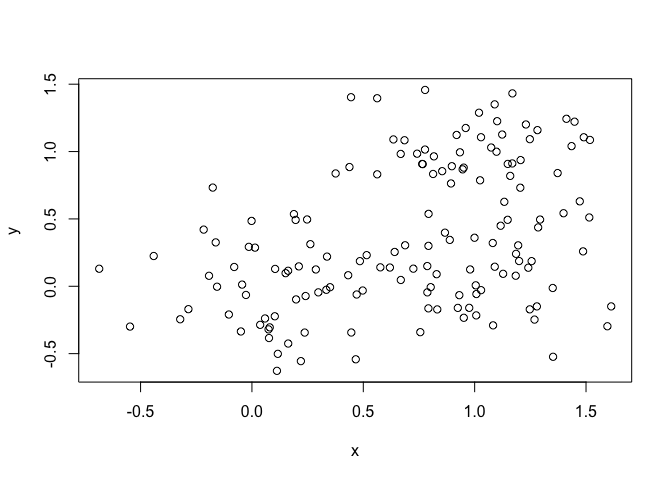
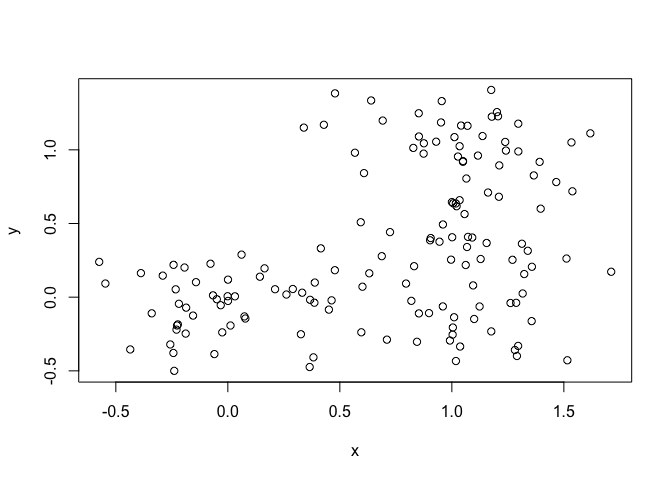
updated class8

diff --git a/class08/class08.md b/class08/class08.md
@@ -8,9 +8,9 @@ Kmeans clustering
 
 Let's try out the **kmeans()** function in R with some made-up data kmeans(x, center (aka the number of groups), nstart (number of iterations))
 
+Generate some example data for clustering Remember that rnorm produces a random normal distribution of 30 samples with a mean of 3 or -3 (a third value would have been the standard deviation)
+
 ``` r
-# Generate some example data for clustering
-# Remember that rnorm produces a random normal distribution of 30 samples with a mean of 3 or -3 (a third value would have been the standard deviation)
 tmp <- c(rnorm(30,-3), rnorm(30,3))
 x <- cbind(x=tmp, y=rev(tmp))
 plot(x)
@@ -29,16 +29,16 @@ km
     ## 
     ## Cluster means:
     ##           x         y
-    ## 1  2.825715 -2.695686
-    ## 2 -2.695686  2.825715
+    ## 1  3.373343 -2.938490
+    ## 2 -2.938490  3.373343
     ## 
     ## Clustering vector:
     ##  [1] 2 2 2 2 2 2 2 2 2 2 2 2 2 2 2 2 2 2 2 2 2 2 2 2 2 2 2 2 2 2 1 1 1 1 1
     ## [36] 1 1 1 1 1 1 1 1 1 1 1 1 1 1 1 1 1 1 1 1 1 1 1 1 1
     ## 
     ## Within cluster sum of squares by cluster:
-    ## [1] 65.61506 65.61506
-    ##  (between_SS / total_SS =  87.5 %)
+    ## [1] 36.8642 36.8642
+    ##  (between_SS / total_SS =  94.2 %)
     ## 
     ## Available components:
     ## 
@@ -80,13 +80,13 @@ table(km$cluster)
     ## 30 30
 
 ``` r
-# Detemrines cluster centers
+# Determines cluster centers
 km$centers
 ```
 
     ##           x         y
-    ## 1  2.825715 -2.695686
-    ## 2 -2.695686  2.825715
+    ## 1  3.373343 -2.938490
+    ## 2 -2.938490  3.373343
 
 Plot x colored by the kmeans cluster assignment and add cluster centers as blue points
 
@@ -142,8 +142,8 @@ gp3 <- cutree(hc, k=3)
 gp3
 ```
 
-    ##  [1] 1 1 1 1 1 1 1 1 1 1 1 1 1 1 1 1 1 1 1 1 1 1 1 1 1 1 1 1 1 1 2 3 2 2 2
-    ## [36] 2 2 3 2 3 2 2 2 2 2 2 3 2 2 2 2 3 3 2 2 2 2 2 2 3
+    ##  [1] 1 1 1 1 1 1 1 1 1 1 1 1 1 1 1 1 1 1 1 1 1 1 1 1 1 1 1 1 1 1 2 3 3 2 2
+    ## [36] 2 3 3 2 2 2 3 3 2 3 3 3 3 3 3 2 2 3 3 2 3 3 3 3 3
 
 ``` r
 table(gp3)
@@ -151,7 +151,7 @@ table(gp3)
 
     ## gp3
     ##  1  2  3 
-    ## 30 23  7
+    ## 30 11 19
 
 How about two clusters?
 
@@ -180,7 +180,7 @@ table(gp2, gp3)
     ##    gp3
     ## gp2  1  2  3
     ##   1 30  0  0
-    ##   2  0 23  7
+    ##   2  0 11 19
 
 Now let's try a more real-life like example to see how our clustering looks.
 
@@ -224,11 +224,11 @@ cutree2 <- cutree(hclust, k=2)
 cutree2
 ```
 
-    ##   [1] 1 1 1 1 1 1 1 1 1 1 1 1 1 1 1 1 1 1 1 1 1 1 1 1 1 1 1 1 1 1 1 1 1 1 1
-    ##  [36] 1 1 1 1 1 1 1 1 1 1 2 1 1 1 1 2 2 2 2 2 2 2 2 2 2 2 2 2 2 2 2 2 2 2 2
-    ##  [71] 2 2 2 2 2 2 2 2 2 2 2 2 2 2 2 2 2 2 2 2 2 2 2 2 2 2 2 2 2 2 1 2 1 2 2
-    ## [106] 2 2 2 2 2 2 2 2 2 2 2 2 1 2 2 2 2 2 2 2 2 2 2 2 2 2 2 2 2 2 1 2 2 2 2
-    ## [141] 2 2 1 2 1 2 2 1 2 2
+    ##   [1] 1 1 1 1 1 1 1 1 1 1 1 1 1 1 1 1 1 1 1 1 1 1 1 1 1 1 1 1 1 1 1 1 1 2 1
+    ##  [36] 1 1 1 1 1 1 1 1 1 1 1 1 1 1 1 2 2 2 2 2 2 1 2 2 2 2 2 2 2 2 2 2 2 2 2
+    ##  [71] 2 2 2 2 2 2 2 2 2 2 2 2 2 2 2 2 2 2 2 2 2 2 2 2 2 2 2 2 2 2 2 2 1 2 2
+    ## [106] 2 2 1 2 2 1 2 2 1 2 2 2 1 2 2 2 1 2 2 1 2 2 2 2 2 2 2 2 2 2 2 2 2 2 2
+    ## [141] 2 2 2 1 2 2 2 1 2 2
 
 ``` r
 table2 <- table(cutree2)
@@ -237,7 +237,7 @@ table2
 
     ## cutree2
     ##  1  2 
-    ## 56 94
+    ## 59 91
 
 ``` r
 #For 3 clusters
@@ -245,11 +245,11 @@ cutree3 <- cutree(hclust, k=3)
 cutree3
 ```
 
-    ##   [1] 1 1 1 1 1 1 1 1 1 1 1 1 1 1 1 1 1 1 1 1 1 1 1 1 1 1 1 1 1 1 1 1 1 1 1
-    ##  [36] 1 1 1 1 1 1 1 1 1 1 2 1 1 1 1 3 2 2 2 2 2 3 2 2 2 3 2 2 2 3 2 2 3 3 3
-    ##  [71] 2 3 2 2 2 2 2 3 2 2 2 2 3 2 2 3 2 2 2 2 2 2 2 2 3 2 3 2 2 2 1 3 1 3 3
-    ## [106] 3 3 3 3 3 3 3 3 3 3 3 3 1 3 3 3 3 3 3 3 3 3 3 3 3 3 3 3 3 3 1 2 3 3 3
-    ## [141] 3 3 1 3 1 3 3 1 3 3
+    ##   [1] 1 1 1 1 1 1 1 1 1 1 1 1 1 1 1 1 1 1 1 1 1 1 1 1 1 1 1 1 1 1 1 1 1 2 1
+    ##  [36] 1 1 1 1 1 1 1 1 1 1 1 1 1 1 1 3 3 3 3 3 2 1 3 2 3 3 2 2 3 3 3 3 3 3 3
+    ##  [71] 3 3 3 3 2 3 3 3 3 3 3 3 2 3 3 3 3 3 3 3 3 2 3 2 3 3 3 2 3 3 2 2 1 2 2
+    ## [106] 2 2 1 2 2 1 2 2 1 2 2 2 1 2 2 2 1 2 2 1 2 2 2 2 2 2 2 2 2 2 2 2 2 2 2
+    ## [141] 3 2 2 1 2 2 2 1 2 2
 
 ``` r
 table3 <- table(cutree3)
@@ -258,7 +258,7 @@ table3
 
     ## cutree3
     ##  1  2  3 
-    ## 56 39 55
+    ## 59 50 41
 
 ``` r
 table(cutree2, cutree3)
@@ -266,8 +266,8 @@ table(cutree2, cutree3)
 
     ##        cutree3
     ## cutree2  1  2  3
-    ##       1 56  0  0
-    ##       2  0 39 55
+    ##       1 59  0  0
+    ##       2  0 50 41
 
 Q. How does this compare to your known 'col' groups?
 
@@ -880,9 +880,9 @@ plot(pca$x[,1], pca$x[,2])
 
 ``` r
 ## lets do PCA
- pca <- prcomp(t(mydata), scale=TRUE)
- ## A basic PC1 vs PC2 2-D plot
- plot(pca$x[,1], pca$x[,2])
+pca <- prcomp(t(mydata), scale=TRUE)
+## A basic PC1 vs PC2 2-D plot
+plot(pca$x[,1], pca$x[,2])
 ```
 
 ![](class08_files/figure-markdown_github/unnamed-chunk-19-1.png)
